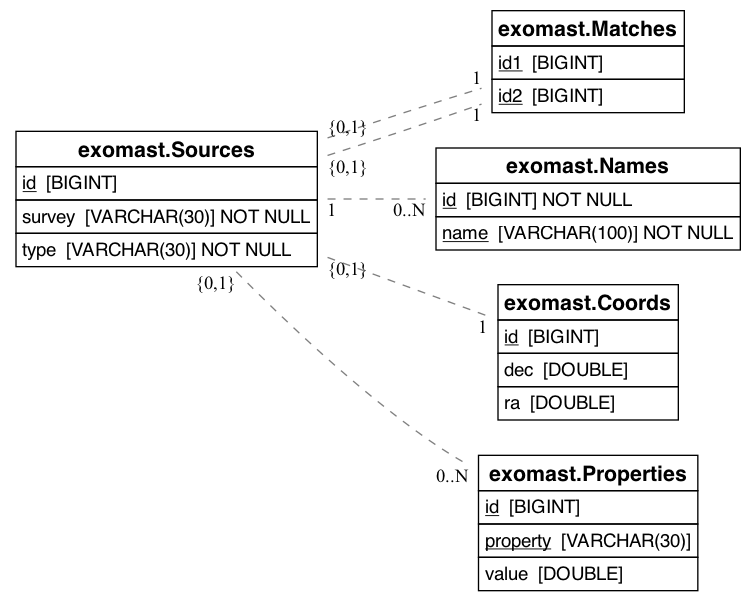
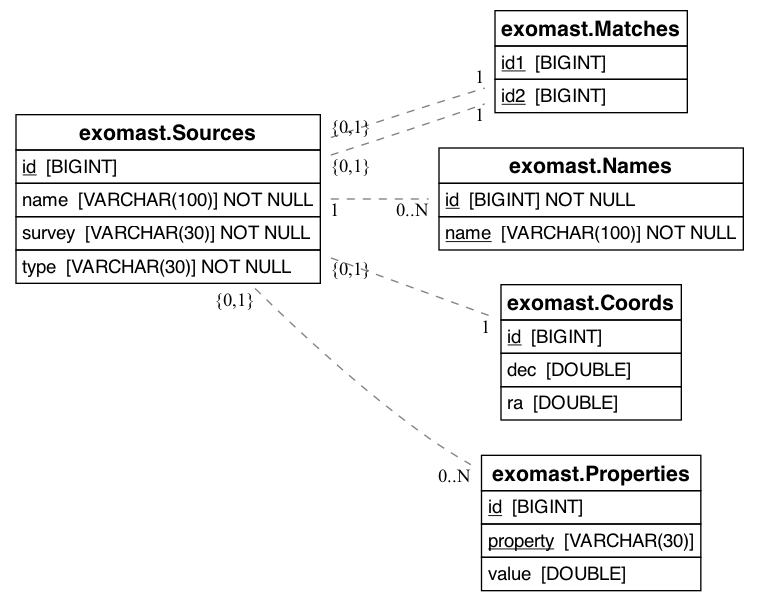
updating schema

diff --git a/tests/test_schema.py b/tests/test_schema.py
@@ -76,6 +76,7 @@ def test_inserts(db_object):
             "id": 1,
             "type": "exoplanet",
             "survey": "nexsci",
+            "name": "HAT-P-11 b"
         },
     ]
 
